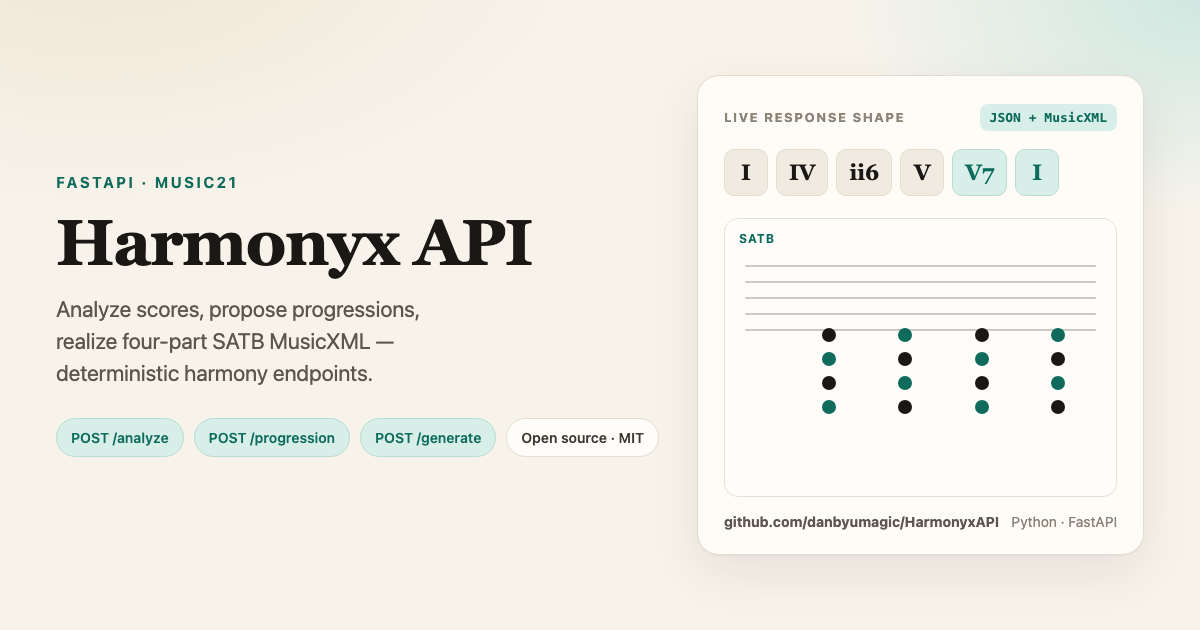
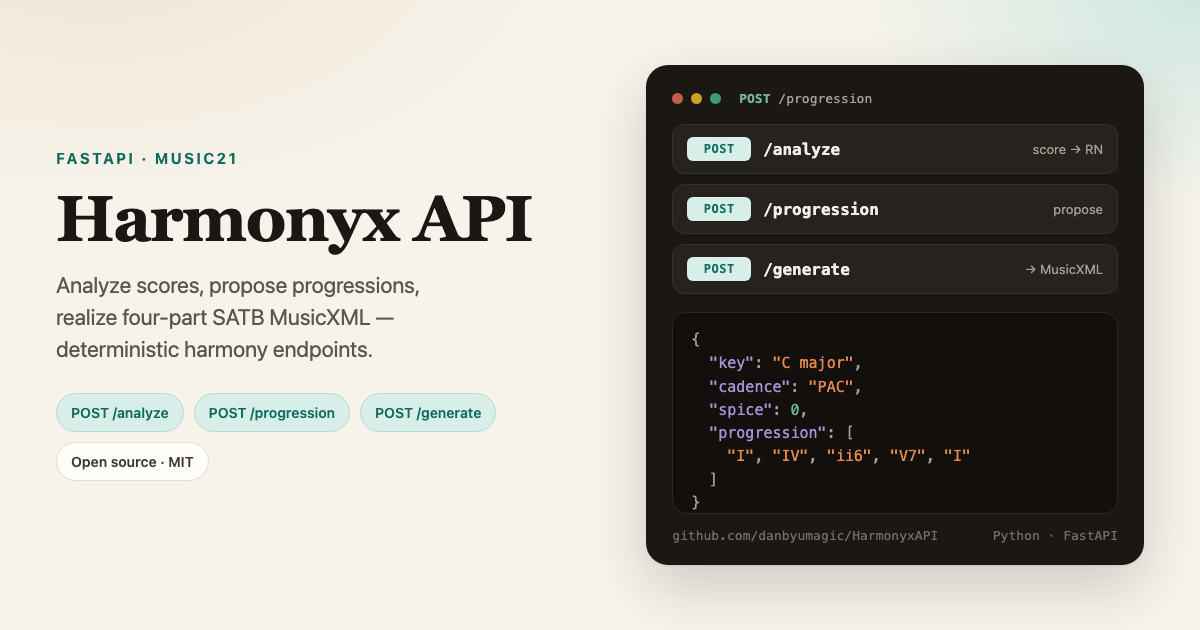
Refresh portfolio preview: API terminal panel, no fake staff
Replace the decorative sheet-music mock with route list + sample JSON
response so the card reads as an API project.

diff --git a/assets/harmonyx-portfolio-preview.html b/assets/harmonyx-portfolio-preview.html
@@ -20,8 +20,8 @@
     height: 630px;
     padding: 52px 56px;
     display: grid;
-    grid-template-columns: 1.15fr 0.85fr;
-    gap: 36px;
+    grid-template-columns: 1.05fr 0.95fr;
+    gap: 40px;
     align-items: center;
   }
   .eyebrow {
@@ -67,130 +67,96 @@
     color: #0f6b5c;
   }
   .panel {
-    background: #fffcf7;
-    border: 1px solid #e4ddd0;
+    background: #1a1714;
     border-radius: 22px;
-    box-shadow: 0 1px 2px rgba(26,23,20,.04), 0 18px 50px rgba(26,23,20,.08);
-    padding: 28px 26px 24px;
-    height: 480px;
+    box-shadow: 0 1px 2px rgba(26,23,20,.06), 0 22px 55px rgba(26,23,20,.18);
+    padding: 26px 26px 22px;
+    height: 500px;
     display: flex;
     flex-direction: column;
+    color: #f2efe8;
   }
-  .panel-top {
+  .chrome {
     display: flex;
-    justify-content: space-between;
-    align-items: baseline;
+    align-items: center;
+    gap: 8px;
     margin-bottom: 18px;
   }
-  .panel-title {
-    font-size: 13px;
-    letter-spacing: 0.12em;
-    text-transform: uppercase;
-    color: #8a8378;
-    font-weight: 700;
+  .dot {
+    width: 11px;
+    height: 11px;
+    border-radius: 50%;
+    background: #3d3832;
   }
-  .api {
+  .dot.r { background: #c45c4a; }
+  .dot.y { background: #c9a227; }
+  .dot.g { background: #3d9b6e; }
+  .path {
+    margin-left: 10px;
     font-family: ui-monospace, SFMono-Regular, Menlo, monospace;
     font-size: 13px;
-    color: #0f6b5c;
-    background: #d8efe9;
-    padding: 6px 10px;
-    border-radius: 8px;
-    font-weight: 600;
+    color: #a49e93;
   }
-  .rns {
-    display: flex;
-    flex-wrap: wrap;
-    gap: 8px;
-    margin-bottom: 22px;
+  .path strong { color: #6fb39a; font-weight: 600; }
+  .routes {
+    display: grid;
+    gap: 10px;
+    margin-bottom: 18px;
   }
-  .rn {
-    min-width: 44px;
-    text-align: center;
-    padding: 10px 12px;
-    border-radius: 10px;
-    background: #f0ebe1;
-    border: 1px solid #e4ddd0;
-    font-family: Georgia, serif;
-    font-size: 22px;
-    font-weight: 700;
+  .route {
+    display: grid;
+    grid-template-columns: 64px 1fr auto;
+    gap: 12px;
+    align-items: center;
+    padding: 12px 14px;
+    border-radius: 12px;
+    background: #26221d;
+    border: 1px solid #34302a;
   }
-  .rn.hi {
-    background: #d8efe9;
-    border-color: #b7ddd3;
-    color: #0f6b5c;
-  }
-  .staff {
-    flex: 1;
-    border-radius: 14px;
-    background: #fffdf9;
-    border: 1px solid #e8e2d6;
-    position: relative;
-    overflow: hidden;
-    padding: 28px 20px 18px;
-  }
-  .staff-label {
-    position: absolute;
-    left: 14px;
-    top: 12px;
+  .method {
+    font-family: ui-monospace, SFMono-Regular, Menlo, monospace;
     font-size: 12px;
     font-weight: 700;
-    letter-spacing: 0.08em;
+    letter-spacing: 0.04em;
     color: #0f6b5c;
+    background: #d8efe9;
+    color: #0f6b5c;
+    border-radius: 6px;
+    text-align: center;
+    padding: 5px 0;
   }
-  .lines {
-    margin-top: 18px;
-    display: grid;
-    gap: 14px;
+  .endpoint {
+    font-family: ui-monospace, SFMono-Regular, Menlo, monospace;
+    font-size: 16px;
+    color: #f2efe8;
+    font-weight: 600;
   }
-  .line {
-    height: 2px;
-    background: #1a1714;
-    opacity: 0.22;
-    border-radius: 1px;
+  .hint {
+    font-size: 13px;
+    color: #a49e93;
   }
-  .notes {
-    position: absolute;
-    left: 70px;
-    right: 24px;
-    top: 54px;
-    bottom: 28px;
-    display: flex;
-    align-items: center;
-    justify-content: space-between;
-    gap: 8px;
-  }
-  .chord {
+  .json-wrap {
     flex: 1;
-    display: flex;
-    flex-direction: column;
-    align-items: center;
-    justify-content: center;
-    gap: 10px;
+    border-radius: 14px;
+    background: #120f0d;
+    border: 1px solid #2c2823;
+    padding: 16px 18px;
+    font-family: ui-monospace, SFMono-Regular, Menlo, monospace;
+    font-size: 15px;
+    line-height: 1.55;
+    overflow: hidden;
   }
-  .dot {
-    width: 14px;
-    height: 14px;
-    border-radius: 50%;
-    background: #1a1714;
-  }
-  .dot.soft { background: #0f6b5c; }
-  .stem {
-    width: 2px;
-    height: 42px;
-    background: #1a1714;
-    margin-top: -4px;
-  }
+  .k { color: #a892d6; }
+  .s { color: #e58a4f; }
+  .n { color: #6fb39a; }
+  .p { color: #a49e93; }
   .foot {
-    margin-top: 16px;
-    font-size: 14px;
-    color: #8a8378;
+    margin-top: 14px;
+    font-size: 13px;
+    color: #756f65;
     display: flex;
     justify-content: space-between;
-  }
-  .brand {
-    font-weight: 700;
-    color: #5c564e;
+    font-family: ui-monospace, SFMono-Regular, Menlo, monospace;
   }
 </style>
 </head>
@@ -208,33 +174,39 @@
       </div>
     </div>
     <div class="panel">
-      <div class="panel-top">
-        <div class="panel-title">Live response shape</div>
-        <div class="api">JSON + MusicXML</div>
+      <div class="chrome">
+        <span class="dot r"></span><span class="dot y"></span><span class="dot g"></span>
+        <span class="path"><strong>POST</strong> /progression</span>
       </div>
-      <div class="rns">
-        <span class="rn">I</span>
-        <span class="rn">IV</span>
-        <span class="rn">ii6</span>
-        <span class="rn">V</span>
-        <span class="rn hi">V7</span>
-        <span class="rn hi">I</span>
+      <div class="routes">
+        <div class="route">
+          <div class="method">POST</div>
+          <div class="endpoint">/analyze</div>
+          <div class="hint">score → RN</div>
+        </div>
+        <div class="route">
+          <div class="method">POST</div>
+          <div class="endpoint">/progression</div>
+          <div class="hint">propose</div>
+        </div>
+        <div class="route">
+          <div class="method">POST</div>
+          <div class="endpoint">/generate</div>
+          <div class="hint">→ MusicXML</div>
+        </div>
       </div>
-      <div class="staff">
-        <div class="staff-label">SATB</div>
-        <div class="lines">
-          <div class="line"></div><div class="line"></div><div class="line"></div>
-          <div class="line"></div><div class="line"></div>
-        </div>
-        <div class="notes">
-          <div class="chord"><div class="dot"></div><div class="dot soft"></div><div class="dot"></div><div class="dot soft"></div></div>
-          <div class="chord"><div class="dot soft"></div><div class="dot"></div><div class="dot soft"></div><div class="dot"></div></div>
-          <div class="chord"><div class="dot"></div><div class="dot soft"></div><div class="dot"></div><div class="dot soft"></div></div>
-          <div class="chord"><div class="dot soft"></div><div class="dot"></div><div class="dot soft"></div><div class="dot"></div></div>
-        </div>
+      <div class="json-wrap">
+        <div><span class="p">{</span></div>
+        <div>&nbsp;&nbsp;<span class="k">"key"</span><span class="p">:</span> <span class="s">"C major"</span><span class="p">,</span></div>
+        <div>&nbsp;&nbsp;<span class="k">"cadence"</span><span class="p">:</span> <span class="s">"PAC"</span><span class="p">,</span></div>
+        <div>&nbsp;&nbsp;<span class="k">"spice"</span><span class="p">:</span> <span class="n">0</span><span class="p">,</span></div>
+        <div>&nbsp;&nbsp;<span class="k">"progression"</span><span class="p">:</span> <span class="p">[</span></div>
+        <div>&nbsp;&nbsp;&nbsp;&nbsp;<span class="s">"I"</span><span class="p">,</span> <span class="s">"IV"</span><span class="p">,</span> <span class="s">"ii6"</span><span class="p">,</span> <span class="s">"V7"</span><span class="p">,</span> <span class="s">"I"</span></div>
+        <div>&nbsp;&nbsp;<span class="p">]</span></div>
+        <div><span class="p">}</span></div>
       </div>
       <div class="foot">
-        <span class="brand">github.com/danbyumagic/HarmonyxAPI</span>
+        <span>github.com/danbyumagic/HarmonyxAPI</span>
         <span>Python · FastAPI</span>
       </div>
     </div>
